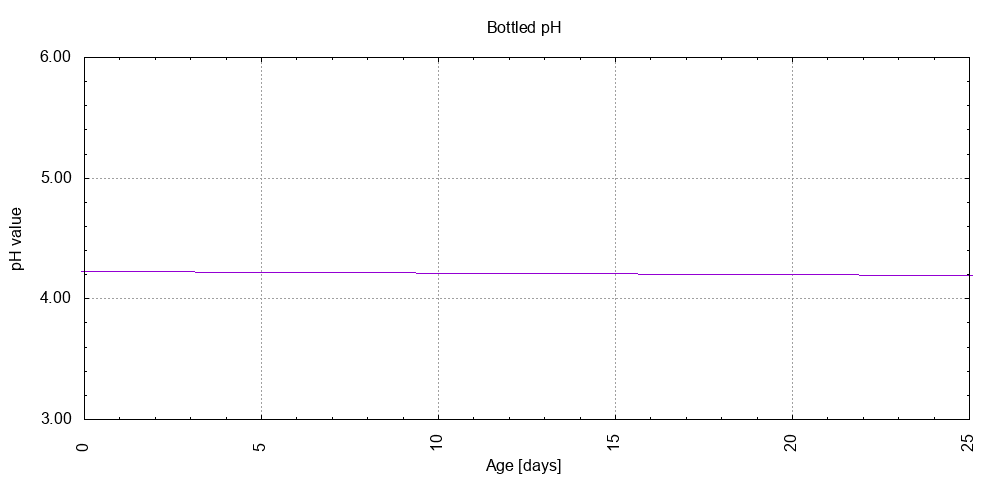
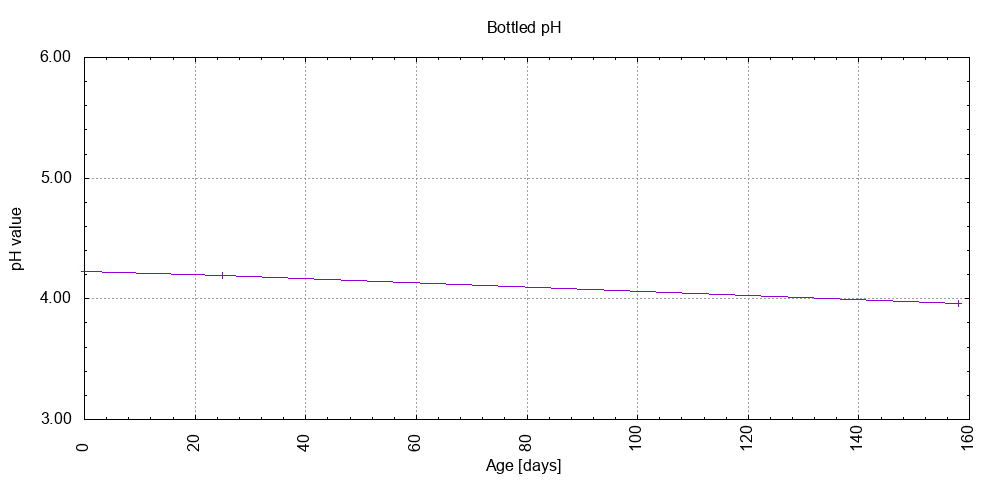
Updated batch 36.

diff --git a/docs/homebrewing/batches/batch_36/README.md b/docs/homebrewing/batches/batch_36/README.md
@@ -64,7 +64,7 @@ Archived.
 |     | 26-06-2023 |     |       | Brew day. |
 |     | 04-07-2023 |   0 |       | Bottling day. |
 |   1 | 29-07-2023 |  25 | 3.00  | Served @ 20.1 C. Cloudy, small foamy head, good lacing, malty, tart, Juniper flavor. |
-|   2 |            |     |       |  |
+|   2 | 09-12-2023 | 158 | 3.00  | Served @ 19.6 C. Cloudy, small foamy head, good lacing, malty, tart, Juniper flavor. |
 |   3 |            |     |       |  |
 |   4 |            |     |       |  |
 |   5 |            |     |       |  |
